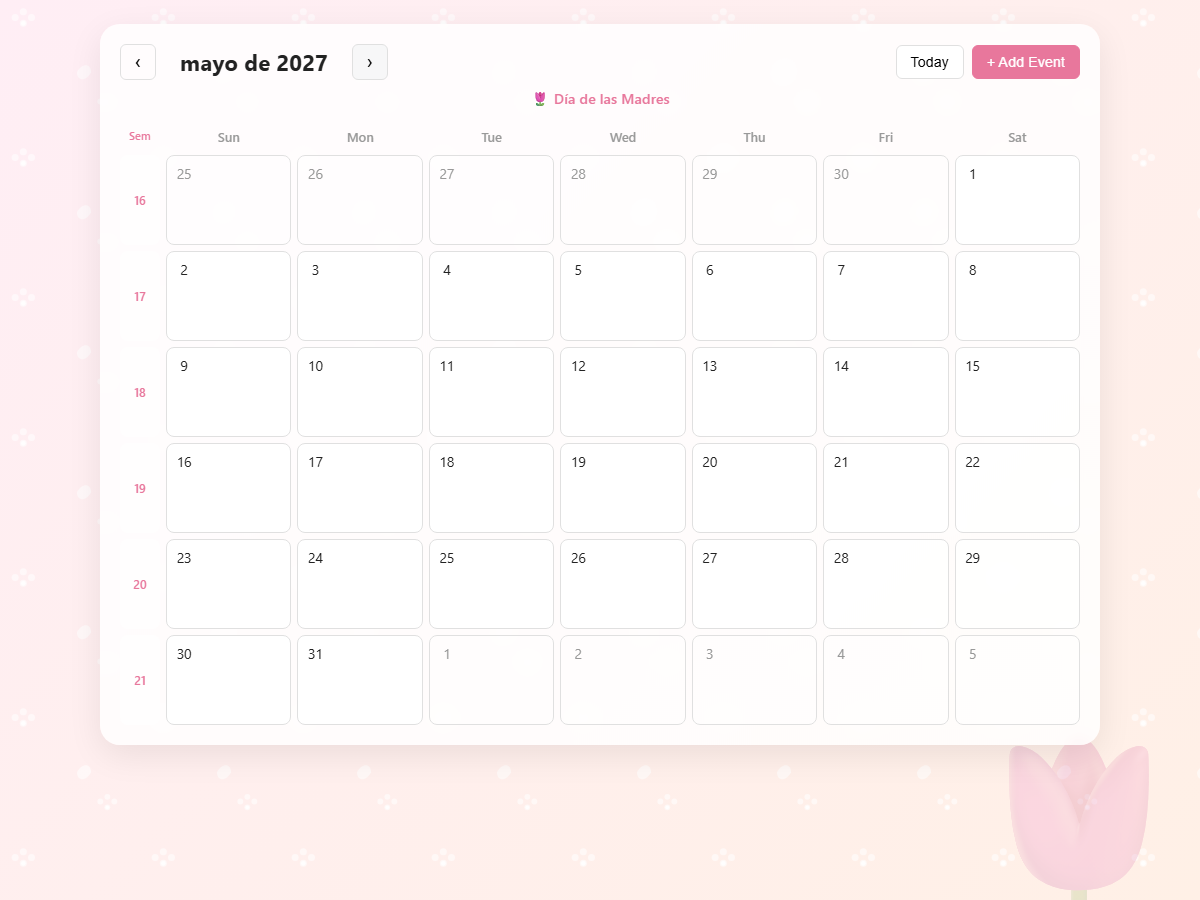
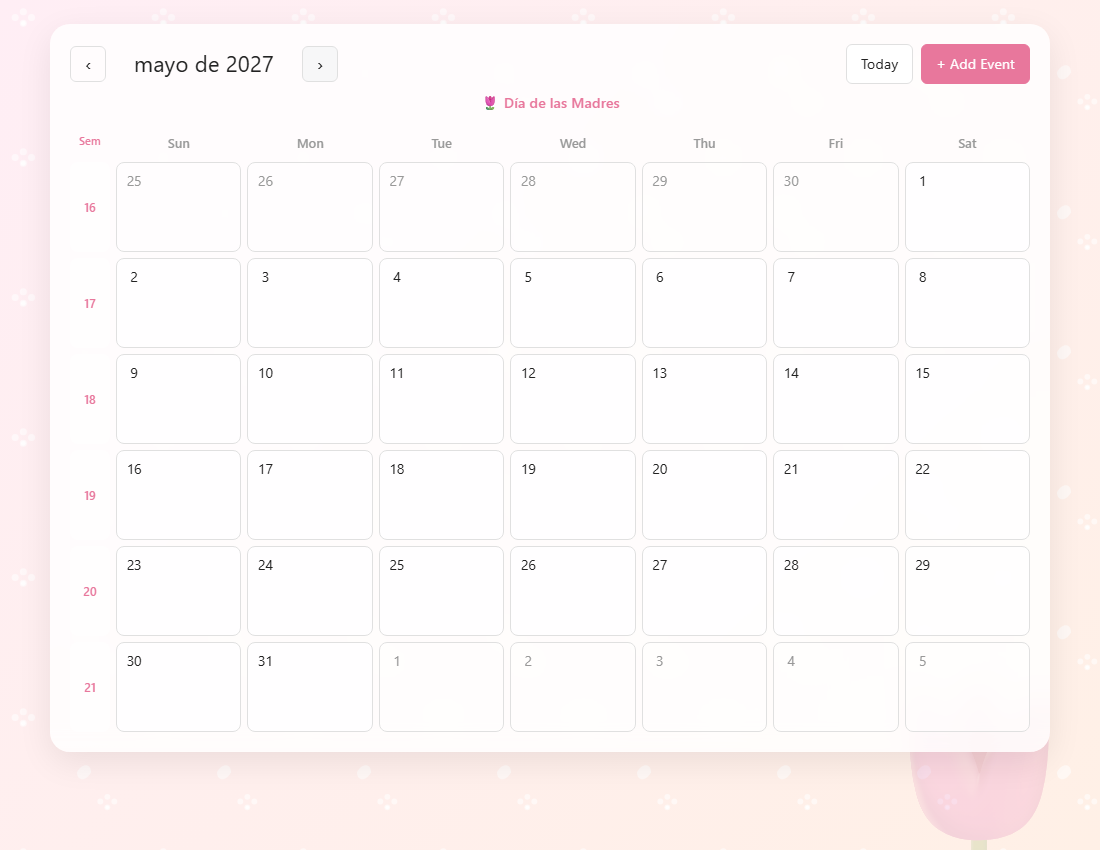
Update screenshots to reflect Tailwind restyle, restore README screenshots section

diff --git a/README.md b/README.md
@@ -4,16 +4,34 @@ A simple month-view calendar where you can add, edit, and delete events, right i
 
 ## Setup Instructions
 
-This app has no build tools or dependencies — it's just plain HTML, CSS, and JavaScript.
+This app has no build tools or dependencies — it's just plain HTML, CSS, and JavaScript
+(styled with [Tailwind CSS](https://tailwindcss.com) via its Play CDN, loaded straight from
+a `<script>` tag).
 
 1. Get the files onto your computer:
    ```bash
    git clone https://github.com/danielarmacias/calendar-app-demo.git
    cd calendar-app-demo
    ```
-   (Or just download/copy the `index.html`, `app.js`, and `styles.css` files.)
+   (Or just download/copy the `index.html` and `app.js` files.)
 2. Open `index.html` in your web browser — double-click the file, or drag it into a browser window.
 3. That's it! The app is running. Your events are saved in the browser's local storage, so they'll still be there next time you open the page (in the same browser).
+
+## Screenshots
+
+### Month view
+![Month view](screenshots/month-view-desktop.png)
+
+### Monthly themed backgrounds
+| May — Mother's Day | December — Christmas |
+| --- | --- |
+| ![Mayo](screenshots/theme-mayo-dia-madres.png) | ![Diciembre](screenshots/theme-diciembre-navidad.png) |
+
+### Add event modal
+![Add event modal](screenshots/add-event-modal.png)
+
+### Mobile responsive view
+![Mobile view](screenshots/month-view-mobile.png)
 
 ## Features
 
